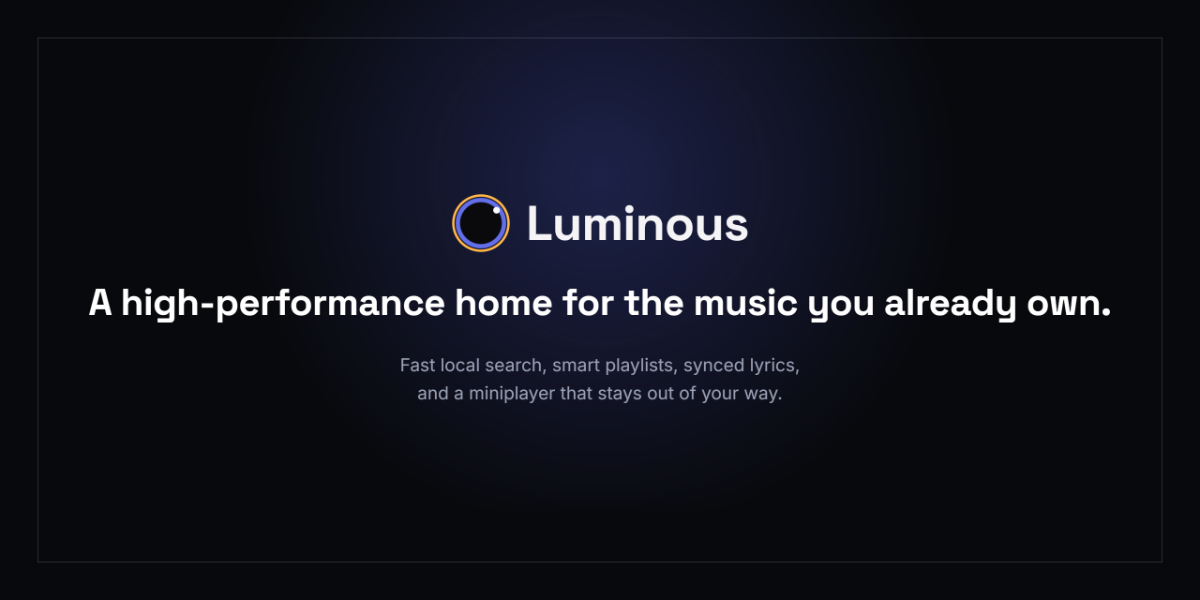
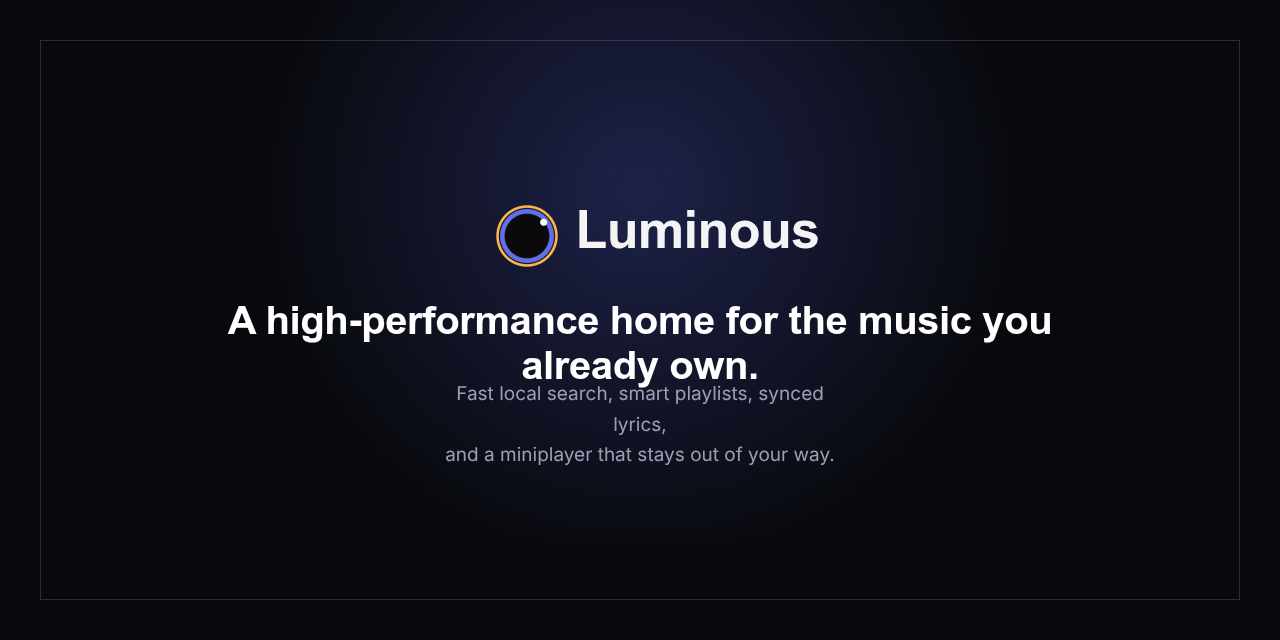
docs: update to display typeface

Changed region(s): [[0.0617, 0.48, 0.925, 0.72], [0.37, 0.3, 0.6475, 0.42]]

diff --git a/luminous/index.html b/luminous/index.html
@@ -14,7 +14,8 @@
 <meta name="twitter:description" content="A high-performance home for the music you already own.">
 <meta name="twitter:image" content="https://esoltys.dev/luminous/luminous-social.png">
 <link rel="preconnect" href="https://fonts.googleapis.com">
-<link href="https://fonts.googleapis.com/css2?family=Space+Grotesk:wght@500;600;700&family=Inter:wght@400;500;600;700&display=swap" rel="stylesheet">
+<link href="https://fonts.googleapis.com/css2?family=Inter:wght@400;500;600;700&display=swap" rel="stylesheet">
+<link href="https://api.fontshare.com/v2/css?f[]=expose@500,700&display=swap" rel="stylesheet">
 <style>
   body { margin: 0; background: #08090c; font-family: 'Inter', sans-serif; }
   ::selection { background: #4F5BD5; color: #fff; }
@@ -31,7 +32,7 @@
     <div style="max-width:1160px; margin:0 auto; padding:16px 32px; display:flex; align-items:center; justify-content:space-between; gap:20px; flex-wrap:wrap;">
       <div style="display:flex; align-items:center; gap:10px;">
         <img src="./landing-assets/luminous-mark.svg" alt="Luminous" style="width:30px; height:30px;" />
-        <span style="font-family:'Space Grotesk',sans-serif; font-weight:700; font-size:19px; letter-spacing:-0.01em;">Luminous</span>
+        <span style="font-family:'Expose',sans-serif; font-weight:700; font-size:19px; letter-spacing:-0.01em;">Luminous</span>
         <span style="font-family:'Inter',sans-serif; font-weight:500; font-size:13px; color:#5d6175;">0.96</span>
       </div>
       <div style="display:flex; align-items:center; gap:24px;">
@@ -55,7 +56,7 @@
     <div style="position:absolute; top:-120px; left:50%; transform:translateX(-50%); width:640px; height:640px; background:radial-gradient(circle, rgba(79,91,213,0.28), transparent 68%); filter:blur(10px); pointer-events:none;"></div>
     <div style="position:relative; display:flex; flex-direction:column; align-items:center; text-align:center; gap:22px;">
       <div id="hero-badge" style="font-family:'Inter',sans-serif; font-weight:600; font-size:12.5px; letter-spacing:0.22em; text-transform:uppercase; color:#FFB648; border:1px solid rgba(255,182,72,0.35); background:rgba(255,182,72,0.08); padding:7px 16px; border-radius:9999px;"></div>
-      <div id="hero-title" style="font-family:'Space Grotesk',sans-serif; font-weight:700; font-size:clamp(34px,5.6vw,62px); line-height:1.06; letter-spacing:-0.02em; max-width:820px;"></div>
+      <div id="hero-title" style="font-family:'Expose',sans-serif; font-weight:700; font-size:clamp(34px,5.6vw,62px); line-height:1.06; letter-spacing:-0.02em; max-width:820px;"></div>
       <div id="hero-sub" style="font-size:17px; line-height:1.6; color:#9aa0b4; max-width:600px;"></div>
       <div style="display:flex; gap:14px; row-gap:14px; flex-wrap:wrap; justify-content:center; margin-top:8px;">
         <a href="https://github.com/esoltys/luminous/releases/latest" style="display:flex; align-items:center; gap:10px; font-size:15px; font-weight:600; color:#08090c; background:#f1f3f8; padding:14px 26px; border-radius:12px;">
@@ -164,7 +165,7 @@ function featureRowHtml(f, suffix) {
   }
   const text = '<div style="flex:1 1 380px; display:flex; flex-direction:column; gap:14px;">'
     + '<div style="font-family:\'Inter\',sans-serif; font-weight:600; font-size:12px; letter-spacing:0.2em; text-transform:uppercase; color:' + f.overlineColor + ';">' + escapeHtml(f.overline) + '</div>'
-    + '<div style="font-family:\'Space Grotesk\',sans-serif; font-weight:600; font-size:30px; letter-spacing:-0.01em;">' + escapeHtml(f.title) + '</div>'
+    + '<div style="font-family:\'Expose\',sans-serif; font-weight:600; font-size:30px; letter-spacing:-0.01em;">' + escapeHtml(f.title) + '</div>'
     + '<div style="font-size:15px; line-height:1.7; color:#9aa0b4; max-width:440px;">' + escapeHtml(f.body) + '</div>'
     + '</div>';
   return '<div style="display:flex; align-items:center; gap:56px; flex-wrap:wrap;">'
